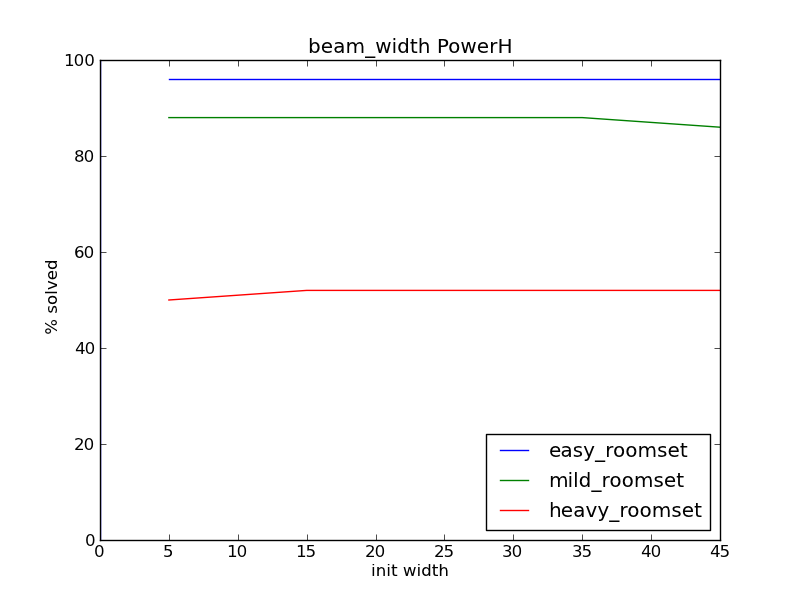
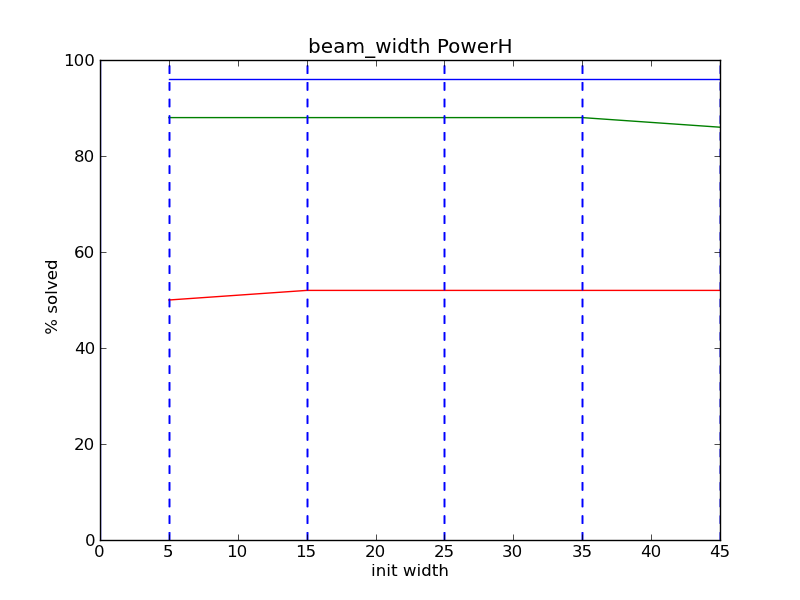
+ lines

Changed region(s): [[0.5938, 0.72, 0.9062, 0.9]]

diff --git a/src/reports/report_LinearH.html b/src/reports/report_LinearH.html
@@ -198,7 +198,7 @@
             <table>
               <!-- Title -->
               <tr>
-                <th colspan="3"> AnytimeBeam-w5-gf(1.3, 'exp')_with_LinearHeuristic easy_roomset </th>
+                <th colspan="3"> beam_width LinearH easy_roomset </th>
               </tr>
               <!-- Header -->
               <tr class="yellow"> 
@@ -294,7 +294,7 @@
             <table>
               <!-- Title -->
               <tr>
-                <th colspan="3"> AnytimeBeam-w15-gf(1.3, 'exp')_with_LinearHeuristic mild_roomset </th>
+                <th colspan="3"> beam_width LinearH mild_roomset </th>
               </tr>
               <!-- Header -->
               <tr class="yellow"> 
@@ -390,7 +390,7 @@
             <table>
               <!-- Title -->
               <tr>
-                <th colspan="3"> AnytimeBeam-w5-gf(1.3, 'exp')_with_LinearHeuristic heavy_roomset </th>
+                <th colspan="3"> beam_width LinearH heavy_roomset </th>
               </tr>
               <!-- Header -->
               <tr class="yellow"> 
@@ -642,7 +642,7 @@
             <table>
               <!-- Title -->
               <tr>
-                <th colspan="3"> AnytimeBeam-w20-gf(16, 'lin')_with_LinearHeuristic easy_roomset </th>
+                <th colspan="3"> beam_widthLinearH easy_roomset </th>
               </tr>
               <!-- Header -->
               <tr class="yellow"> 
@@ -724,7 +724,7 @@
             <table>
               <!-- Title -->
               <tr>
-                <th colspan="3"> AnytimeBeam-w20-gf(2, 'lin')_with_LinearHeuristic mild_roomset </th>
+                <th colspan="3"> beam_widthLinearH mild_roomset </th>
               </tr>
               <!-- Header -->
               <tr class="yellow"> 
@@ -806,7 +806,7 @@
             <table>
               <!-- Title -->
               <tr>
-                <th colspan="3"> AnytimeBeam-w20-gf(8, 'lin')_with_LinearHeuristic heavy_roomset </th>
+                <th colspan="3"> beam_widthLinearH heavy_roomset </th>
               </tr>
               <!-- Header -->
               <tr class="yellow"> 
@@ -1044,7 +1044,7 @@
             <table>
               <!-- Title -->
               <tr>
-                <th colspan="3"> AnytimeBeam-w20-gf(1.7, 'exp')_with_LinearHeuristic easy_roomset </th>
+                <th colspan="3"> beam_factorLinearH easy_roomset </th>
               </tr>
               <!-- Header -->
               <tr class="yellow"> 
@@ -1126,7 +1126,7 @@
             <table>
               <!-- Title -->
               <tr>
-                <th colspan="3"> AnytimeBeam-w20-gf(1.3, 'exp')_with_LinearHeuristic mild_roomset </th>
+                <th colspan="3"> beam_factorLinearH mild_roomset </th>
               </tr>
               <!-- Header -->
               <tr class="yellow"> 
@@ -1208,7 +1208,7 @@
             <table>
               <!-- Title -->
               <tr>
-                <th colspan="3"> AnytimeBeam-w20-gf(1.5, 'exp')_with_LinearHeuristic heavy_roomset </th>
+                <th colspan="3"> beam_factorLinearH heavy_roomset </th>
               </tr>
               <!-- Header -->
               <tr class="yellow"> 
@@ -1492,7 +1492,7 @@
             <table>
               <!-- Title -->
               <tr>
-                <th colspan="3"> AnytimeBest-d150_with_LinearHeuristic easy_roomset </th>
+                <th colspan="3"> best firstLinearH easy_roomset </th>
               </tr>
               <!-- Header -->
               <tr class="yellow"> 
@@ -1602,7 +1602,7 @@
             <table>
               <!-- Title -->
               <tr>
-                <th colspan="3"> AnytimeBest-d250_with_LinearHeuristic mild_roomset </th>
+                <th colspan="3"> best firstLinearH mild_roomset </th>
               </tr>
               <!-- Header -->
               <tr class="yellow"> 
@@ -1712,7 +1712,7 @@
             <table>
               <!-- Title -->
               <tr>
-                <th colspan="3"> AnytimeBest-d150_with_LinearHeuristic heavy_roomset </th>
+                <th colspan="3"> best firstLinearH heavy_roomset </th>
               </tr>
               <!-- Header -->
               <tr class="yellow"> 

diff --git a/src/reports/report_PowerH.html b/src/reports/report_PowerH.html
@@ -198,7 +198,7 @@
             <table>
               <!-- Title -->
               <tr>
-                <th colspan="3"> AnytimeBeam-w35-gf(1.3, 'exp')_with_PowerHeuristic2 easy_roomset </th>
+                <th colspan="3"> beam_width PowerH easy_roomset </th>
               </tr>
               <!-- Header -->
               <tr class="yellow"> 
@@ -294,7 +294,7 @@
             <table>
               <!-- Title -->
               <tr>
-                <th colspan="3"> AnytimeBeam-w15-gf(1.3, 'exp')_with_PowerHeuristic2 mild_roomset </th>
+                <th colspan="3"> beam_width PowerH mild_roomset </th>
               </tr>
               <!-- Header -->
               <tr class="yellow"> 
@@ -390,7 +390,7 @@
             <table>
               <!-- Title -->
               <tr>
-                <th colspan="3"> AnytimeBeam-w45-gf(1.3, 'exp')_with_PowerHeuristic2 heavy_roomset </th>
+                <th colspan="3"> beam_width PowerH heavy_roomset </th>
               </tr>
               <!-- Header -->
               <tr class="yellow"> 
@@ -642,7 +642,7 @@
             <table>
               <!-- Title -->
               <tr>
-                <th colspan="3"> AnytimeBeam-w20-gf(16, 'lin')_with_PowerHeuristic2 easy_roomset </th>
+                <th colspan="3"> beam_widthPowerH easy_roomset </th>
               </tr>
               <!-- Header -->
               <tr class="yellow"> 
@@ -724,7 +724,7 @@
             <table>
               <!-- Title -->
               <tr>
-                <th colspan="3"> AnytimeBeam-w20-gf(2, 'lin')_with_PowerHeuristic2 mild_roomset </th>
+                <th colspan="3"> beam_widthPowerH mild_roomset </th>
               </tr>
               <!-- Header -->
               <tr class="yellow"> 
@@ -806,7 +806,7 @@
             <table>
               <!-- Title -->
               <tr>
-                <th colspan="3"> AnytimeBeam-w20-gf(8, 'lin')_with_PowerHeuristic2 heavy_roomset </th>
+                <th colspan="3"> beam_widthPowerH heavy_roomset </th>
               </tr>
               <!-- Header -->
               <tr class="yellow"> 
@@ -1044,7 +1044,7 @@
             <table>
               <!-- Title -->
               <tr>
-                <th colspan="3"> AnytimeBeam-w20-gf(1.7, 'exp')_with_PowerHeuristic2 easy_roomset </th>
+                <th colspan="3"> beam_factorPowerH easy_roomset </th>
               </tr>
               <!-- Header -->
               <tr class="yellow"> 
@@ -1126,7 +1126,7 @@
             <table>
               <!-- Title -->
               <tr>
-                <th colspan="3"> AnytimeBeam-w20-gf(1.3, 'exp')_with_PowerHeuristic2 mild_roomset </th>
+                <th colspan="3"> beam_factorPowerH mild_roomset </th>
               </tr>
               <!-- Header -->
               <tr class="yellow"> 
@@ -1208,7 +1208,7 @@
             <table>
               <!-- Title -->
               <tr>
-                <th colspan="3"> AnytimeBeam-w20-gf(1.5, 'exp')_with_PowerHeuristic2 heavy_roomset </th>
+                <th colspan="3"> beam_factorPowerH heavy_roomset </th>
               </tr>
               <!-- Header -->
               <tr class="yellow"> 
@@ -1492,7 +1492,7 @@
             <table>
               <!-- Title -->
               <tr>
-                <th colspan="3"> AnytimeBest-d10_with_PowerHeuristic2 easy_roomset </th>
+                <th colspan="3"> best firstPowerH easy_roomset </th>
               </tr>
               <!-- Header -->
               <tr class="yellow"> 
@@ -1602,7 +1602,7 @@
             <table>
               <!-- Title -->
               <tr>
-                <th colspan="3"> AnytimeBest-d250_with_PowerHeuristic2 mild_roomset </th>
+                <th colspan="3"> best firstPowerH mild_roomset </th>
               </tr>
               <!-- Header -->
               <tr class="yellow"> 
@@ -1712,7 +1712,7 @@
             <table>
               <!-- Title -->
               <tr>
-                <th colspan="3"> AnytimeBest-d10_with_PowerHeuristic2 heavy_roomset </th>
+                <th colspan="3"> best firstPowerH heavy_roomset </th>
               </tr>
               <!-- Header -->
               <tr class="yellow"> 

diff --git a/src/report.py b/src/report.py
@@ -36,11 +36,13 @@ def get_report_dir():
 
 
 # = General =
-def solvedp_by_roomset(pssa,name_to_value,name, xname):
+def solvedp_by_roomset(pssa,name_to_value,name, xname, xdomain=None):
     ''' pssa : PssAnalyzer
         name_to_value : function converts agent name to numerical value
     '''
     pylab.axvline(ymin=0, ymax=100)
+    if xdomain != None:
+        pylab.axhline(xmin=xdomain[0],xmax=xdomain[1])
     for roomset_name in rooomsets_names:
         #filtered pssa
         filtered_pssa = pssa.select(".*", roomset_pattern=roomset_name)
@@ -51,13 +53,17 @@ def solvedp_by_roomset(pssa,name_to_value,name, xname):
         width_vs_solved = [(name_to_value(n), p) for n,p in list ]
         #print_list(width_vs_solved);exit()
         #table [(20,80%),(40,90%),...]
+        #xmin= min(zip(*width_vs_solved)[0])
+        
+        
         width_vs_solved_table = do_by_key(sorted, width_vs_solved, 1, reverse=True ) 
         #vectors [[20,40,...],[80%,90%]]
         width_vs_solved_vectors = zip(*sorted(width_vs_solved))
         x,y = width_vs_solved_vectors
         print width_vs_solved_vectors
         xplot.html.plot( ((xname, x),(' % solved', y)), title=name, label = roomset_name )
-        
+        for row in width_vs_solved:
+            pylab.axvline(row[0],0,row[1],linestyle='--',color='b' )
         xplot.html.add_table(width_vs_solved_table, name + " " + roomset_name, header=[name,"%solved"])
     # end
     fname = name + xname + ".png"
@@ -113,7 +119,7 @@ def wins_by_roomset(pssa,name_to_value,name, xname):
         
         mat = wins_table(filtered_pssa)  
         #print mat
-        mat[0] = [name_to_value(name) for name in mat[0] ]
+        mat[0] = [name_to_value(aname) for aname in mat[0] ]
         
         mat = lzip(mat)
         header = ["param",'10s','20s','30s','40s']
@@ -223,7 +229,7 @@ def beam_factor_reserch(used_heursistics_pattern,hname):
     def name_to_factor(name):
         return float(re.findall(r"\d*\.\d+",name)[0])
         
-    solvedp_by_roomset(pssa, name_to_factor, "beam_factor" + hname, "factor")
+    solvedp_by_roomset(pssa, name_to_factor, "beam_factor" + hname, "factor",xdomain=(1.3,2.0))
     wins_by_roomset(pssa, name_to_factor, "beam_factor" + hname, "factor")
 
 #------------------------------- Best firts ---------------------------------

diff --git a/src/xplot.py b/src/xplot.py
@@ -7,7 +7,7 @@ Created on Apr 30, 2011
 import pylab as P
 import os
     
-def plot_result(result,title=None, label=None, filename=None, show=False):
+def plot_result(result,title=None, label=None, filename=None, show=False, legend=False):
     ''' Plots graph for result
         shows graph if  filename is not present
         saves to file if filename is present
@@ -22,7 +22,8 @@ def plot_result(result,title=None, label=None, filename=None, show=False):
     
     #P.figtext(0, 0.8, 'foo')
     P.plot(x,y, label=label)
-    P.legend(loc='lower right')
+    if legend==True:
+        P.legend(loc='lower right')
 
     
     if filename is not None:
